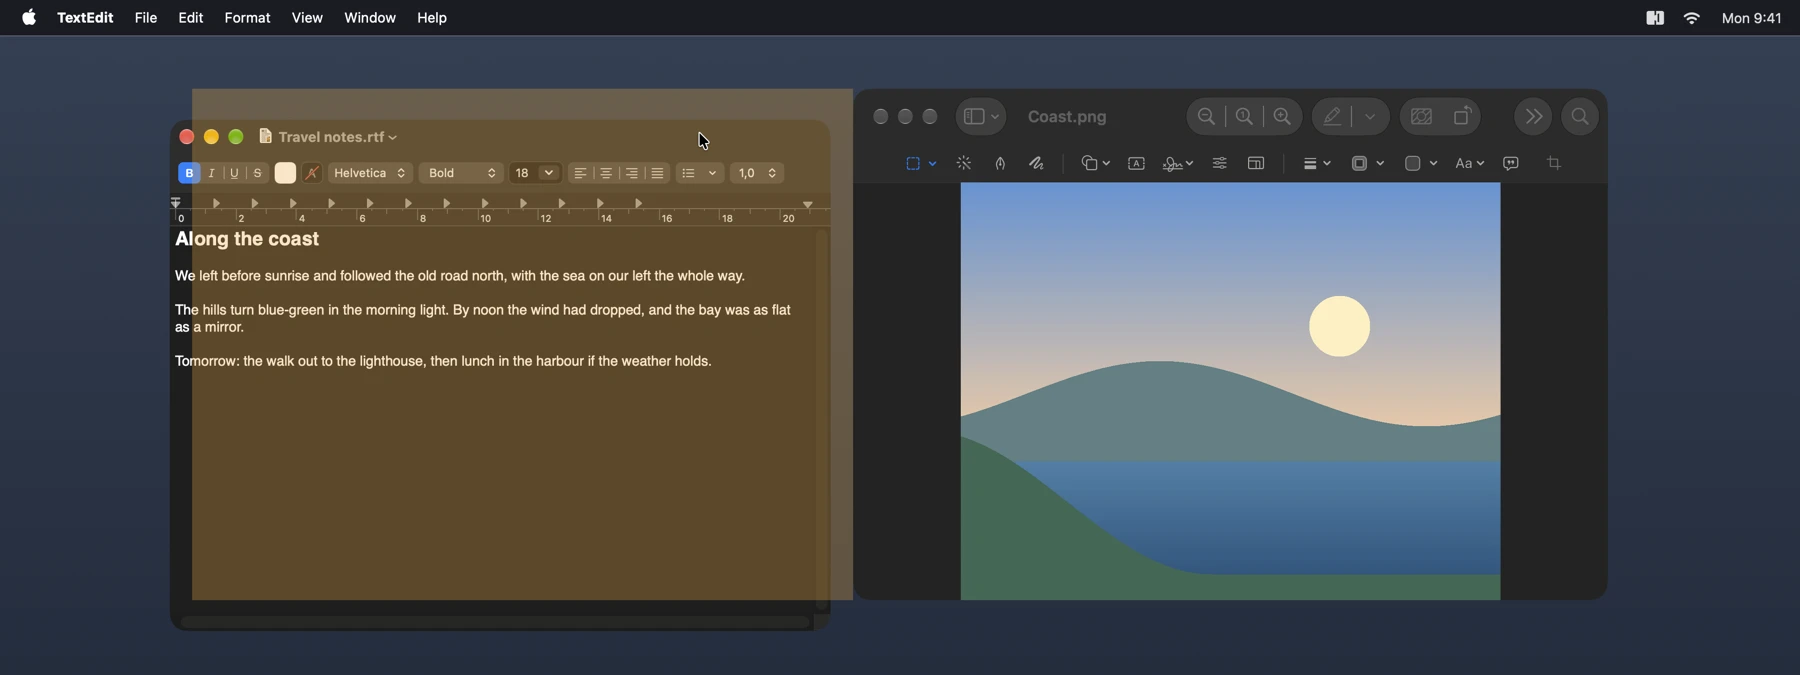
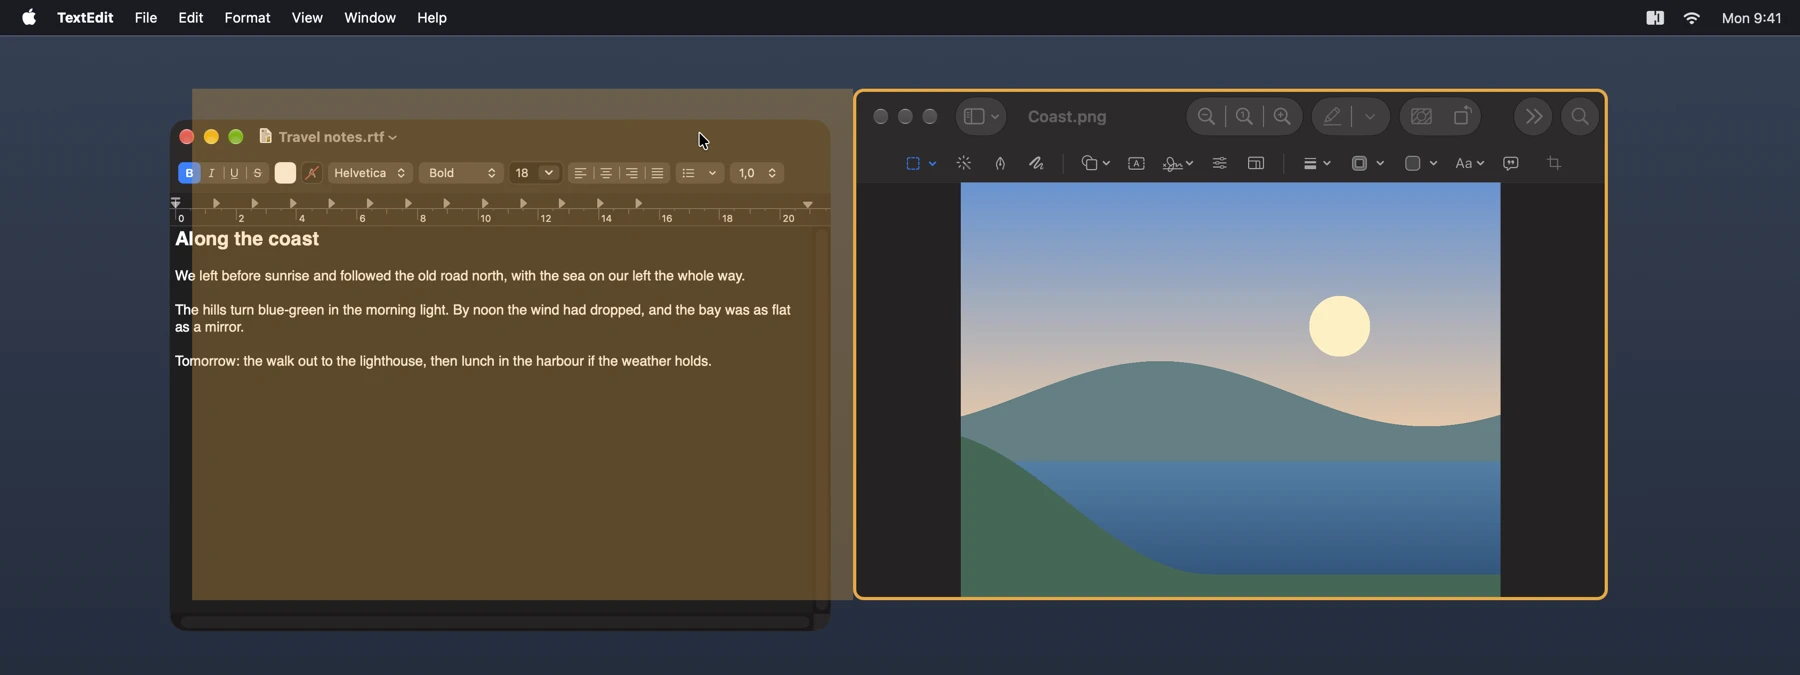
docs(site): show the amber outline in the page's pictures
Plan: M3b

Changed region(s): [[0.4667, 0.8711, 0.9022, 0.9022], [0.4667, 0.1244, 0.9022, 0.1556]]

diff --git a/tools/site/index.html b/tools/site/index.html
@@ -185,7 +185,7 @@ h1 .pair > span:last-child { animation: join-right .7s cubic-bezier(.2, .8, .2, 
     </section>
 
     <figure class="across" style="--at: 47.4%">
-      <img loading="lazy" src="shots/join.webp" width="1800" height="675" alt="TextEdit being dragged to Preview with Command pressed, and the guide showing where it will join.">
+      <img loading="lazy" src="shots/join.webp" width="1800" height="675" alt="TextEdit being dragged to Preview with Command pressed: the guide shows where it will land, and an amber outline marks Preview.">
       <figcaption>While you drag with <kbd>⌘</kbd> pressed, a guide shows where the window will join.</figcaption>
     </figure>
 
